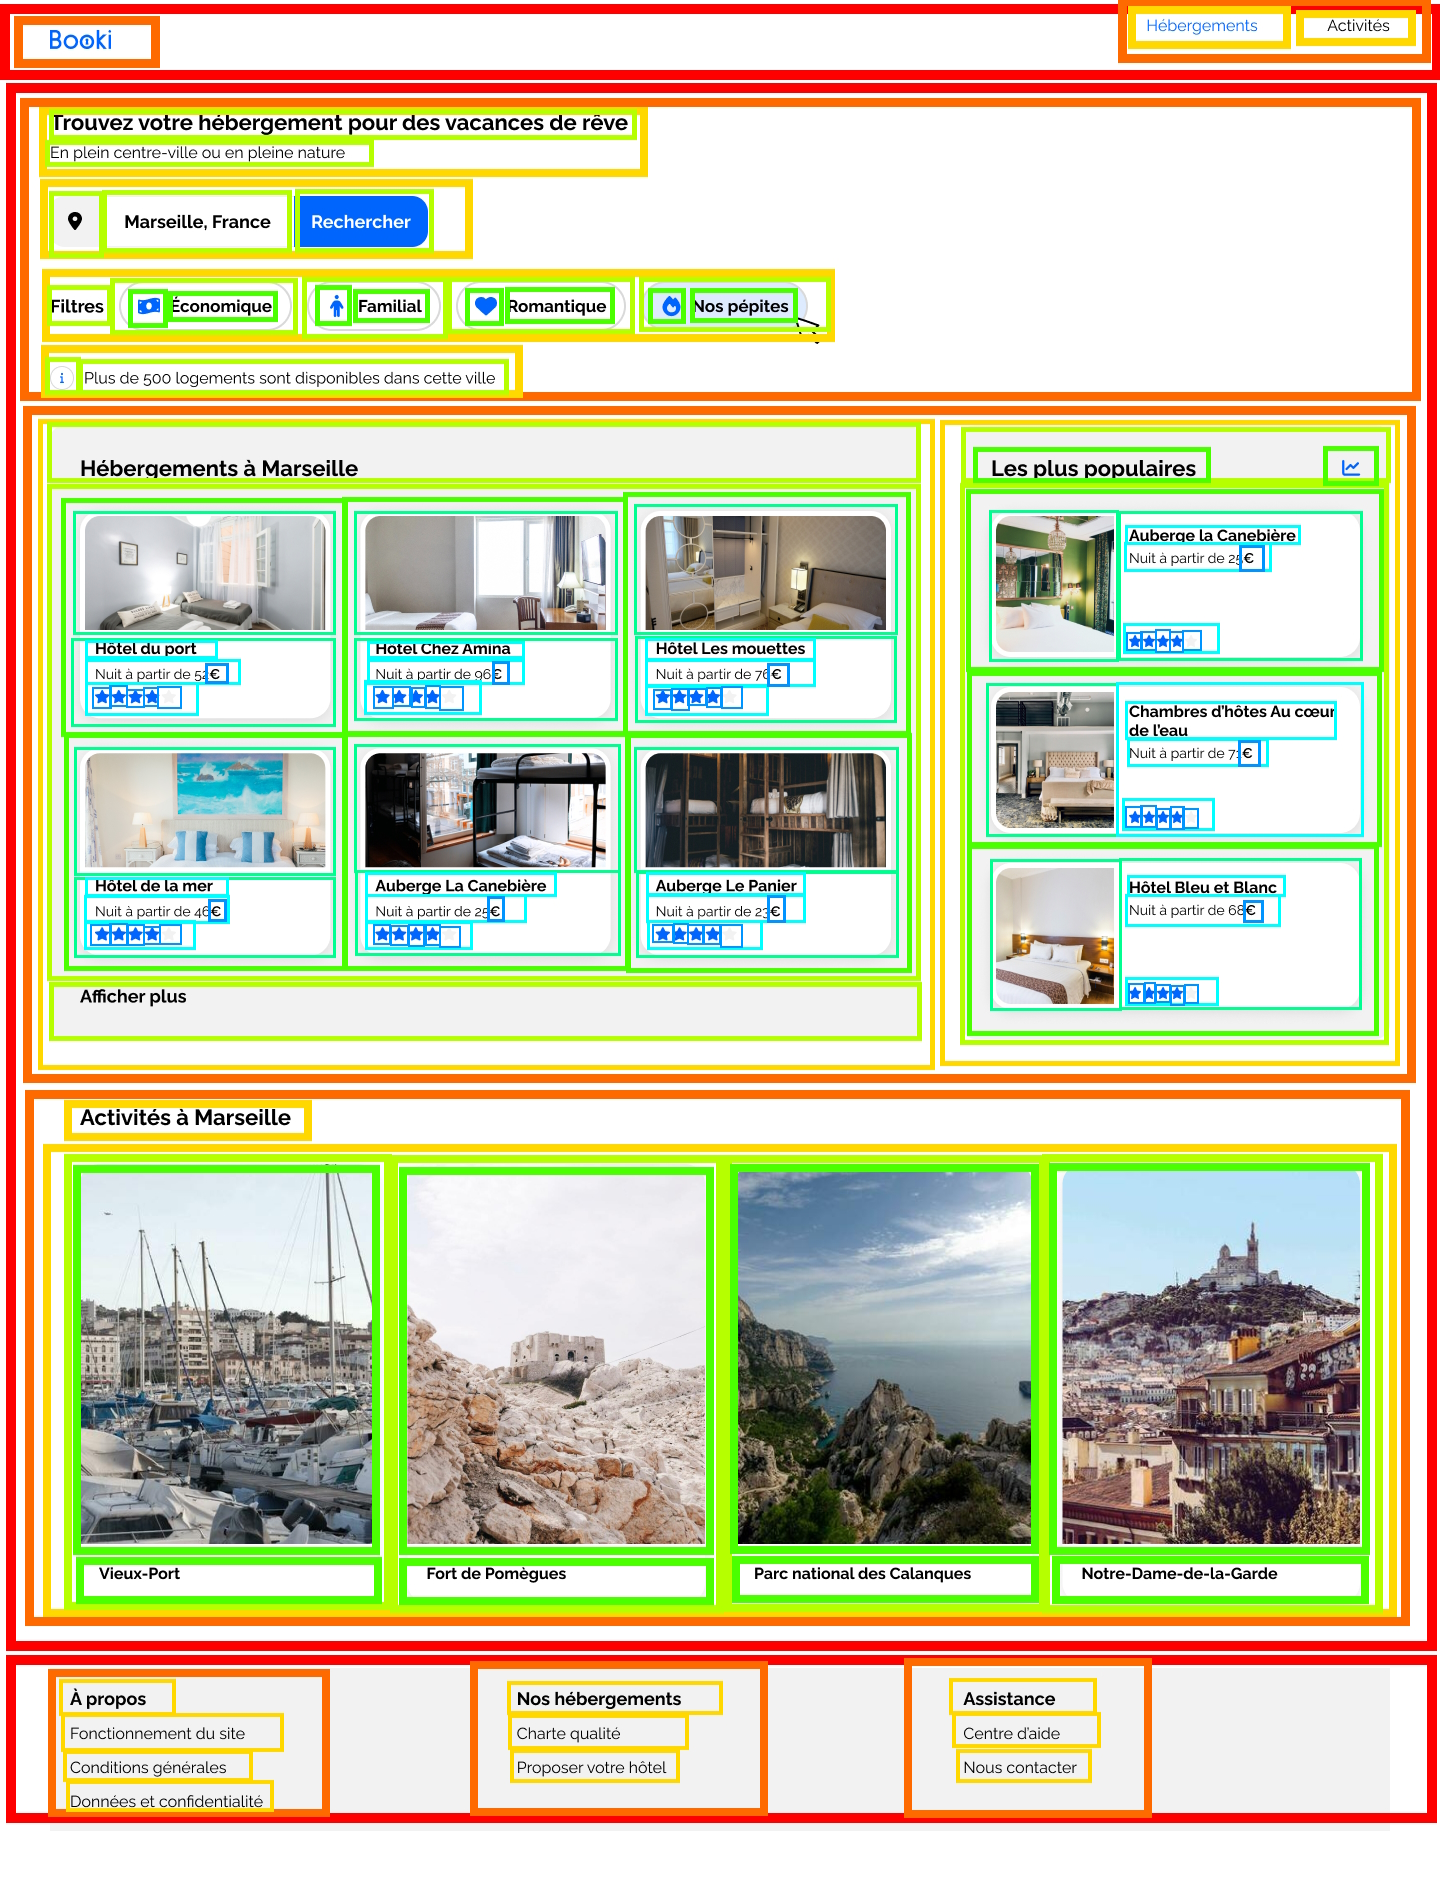
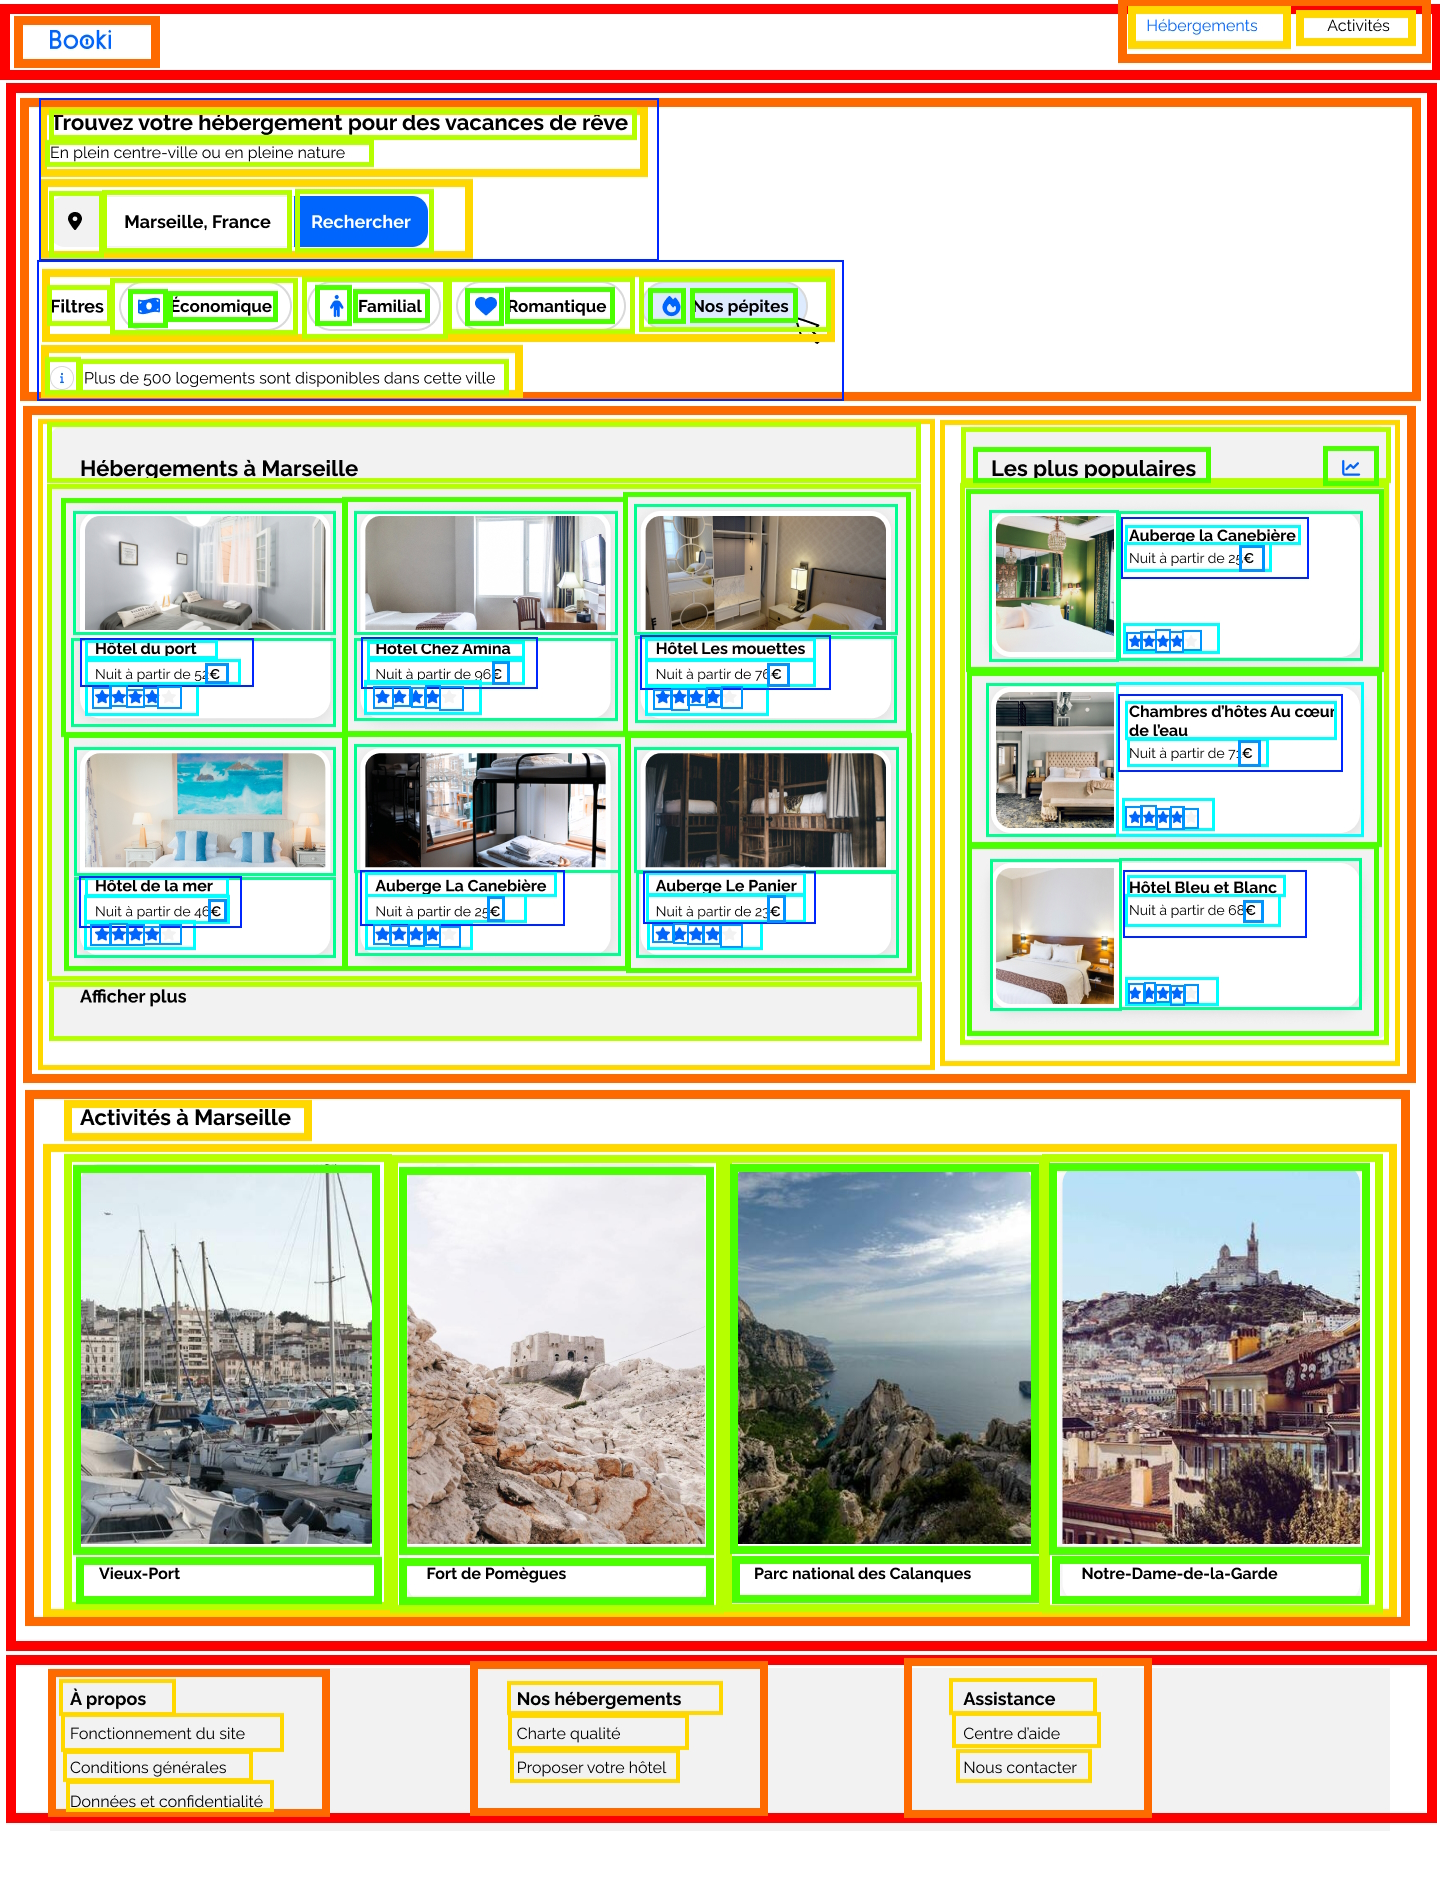
Add recherche section

Changed region(s): [[0.5312, 0.3122, 0.5625, 0.3434]]

diff --git a/index.html b/index.html
@@ -18,8 +18,8 @@
 <body>
     <div class="main-container">
         <header>
-            <a href="index.html" >
-                <img src="./images/logo/Booki.png" alt="Logo booki clickable pour retourner à l'accueil du site" class="logo-clickable">
+            <a href="index.html">
+                <img class="logo-clickable" src="./images/logo/Booki.png" alt="Logo booki clickable pour retourner à l'accueil du site" >
             </a>
         
             <nav>
@@ -36,8 +36,65 @@
 
         </header>
         <main>
+
+            <div class="recherche-and-filtres">
+
+                <section class="recherche">
+
+                    <div class="recherche-title">
+                        <h2 class="section-title">Trouvez votre hébergement pour des vacances de rêve</h2>
+                        <p>En plein centre-ville ou en pleine nature</p>
+                    </div>
+
+                    <form method="get" action="">
+                        <p class="search-bar">
+                          <label class="search-location-dot" for="location"><i class="fa-solid fa-location-dot"></i></label>
+                          <input class="search-box" type="text" name="recherche" id="recherche" placeholder="Ville, Pays">
+                          <button class="search-button"><i class="fa-solid fa-magnifying-glass"></i>
+                            <p class="search-button-text">Rechercher</p></button>
+                        </p>
+                    </form>
+                    
+                </section>
+
+                <section class="filtres">
+
+                    <div class="filtres-bar">
+                        <h3 class="filtres-title">Filtres</h3>
+
+                        <div class="filtres-buttons">
+                            <div class="filtres-button">
+                                <i class="fa-solid fa-money-bill-wave"></i>
+                                <p class="filtres-button-text">Économique</p>
+                            </div>
+                            <div class="filtres-button">
+                                <i class="fa-solid fa-person"></i>
+                                <p class="filtres-button-text">Familial</p>
+                            </div>
+                            <div class="filtres-button">
+                                <i class="fa-solid fa-heart"></i>
+                                <p class="filtres-button-text">Romantique</p>
+                            </div>
+                            <div class="filtres-button">
+                                <i class="fa-solid fa-fire"></i>
+                                <p class="filtres-button-text">Nos pépites</p>
+                            </div>
+                        </div>
+
+                    </div>
+
+                    <div class="filtres-info">
+                        <i class="fa-solid fa-info"></i>
+                        <p>Plus de 500 logements sont disponibles dans cette ville</p>
+                    </div>
+                 
+                </section>
+
+            </div>
+
+
             <div class="hebergements-and-populaires">
-                <section class="hebergements">
+                <section class="hebergements" id="hebergements">
 
                 </section>
                 <section class="populaires">

diff --git a/css/style.css b/css/style.css
@@ -23,6 +23,7 @@ body {
     max-width: 1440px;
     padding: 0 50px;
     box-sizing: border-box;
+    /* background-color: grey; */
 }
 
 .section-title {
@@ -59,11 +60,13 @@ header{
     justify-content: space-between;
     align-items: center;
     height :79px;
+    /* width: 1440px; */
+    /* margin: 0px auto; */
+    /* background-color: burlywood; */
 }
 
 .logo-clickable{
     height: 19px;
-    margin: 30px;
 }
 
 .menu{
@@ -86,6 +89,66 @@ header{
     border-top:2px var(--main-color) solid;
   
 
+}
+
+/****** Recherche And Filtres ***********/
+.recherche-and-filtres{
+    padding-left: 20px;
+}
+
+/****** Recherche ***********/
+.recherche-title p{
+    margin: 8px 0px;
+}
+
+.search-bar{
+    display: flex;
+    margin: 35px 0px;
+    height: 50px;
+}
+   
+.search-location-dot{
+    display: flex;
+    justify-content: center;
+    align-items: center;
+    background-color: var(--main-bg-color);
+    width: 50px;
+    height: 50px;
+    border-radius: 15px 0px 0px 15px;
+}
+
+.search-location-dot i{
+    color:black;
+}
+
+.search-box{
+    width: 195px;
+    border-radius: 0;
+    border: 1px solid var(--main-bg-color);
+    font-size: 18px;
+    font-weight: 700;
+    text-align: center;
+}
+
+.search-button{
+    display:flex;
+    width: 132px;
+    border-radius: 0px 15px 15px 0px;
+    border-color: var(--main-color);
+    border-style: none;
+    background-color: var(--main-color);
+    justify-content: center;
+    align-items: center;
+}
+
+.search-button-text{
+    color: white;
+    font-size: 18px;
+    font-weight: 700;
+}
+
+.search-button i{
+    display: none;
 }
 
 /****** Hebergements And Populaires ***********/
